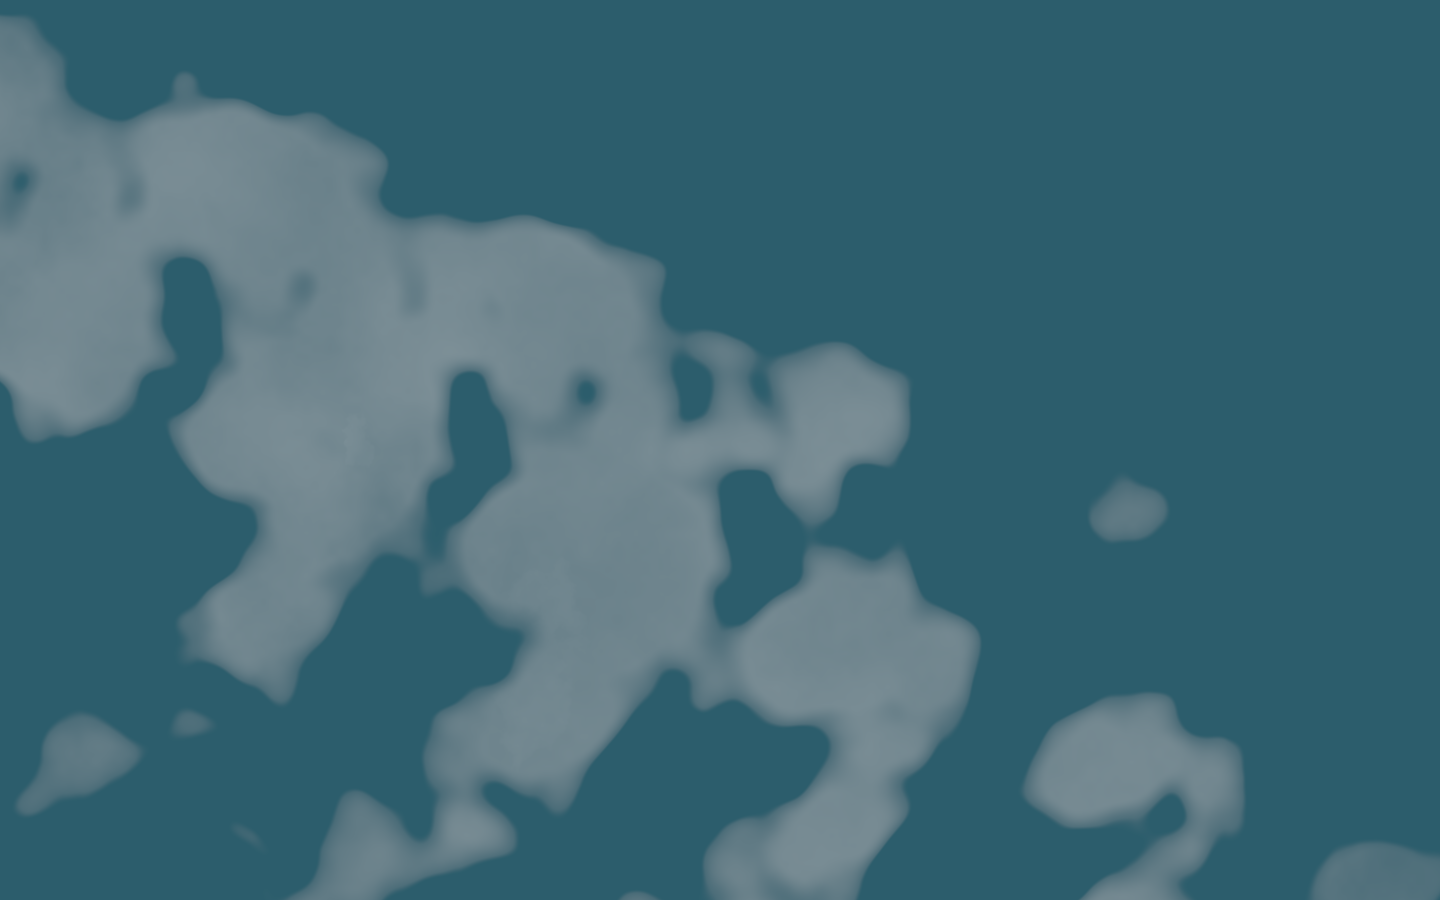
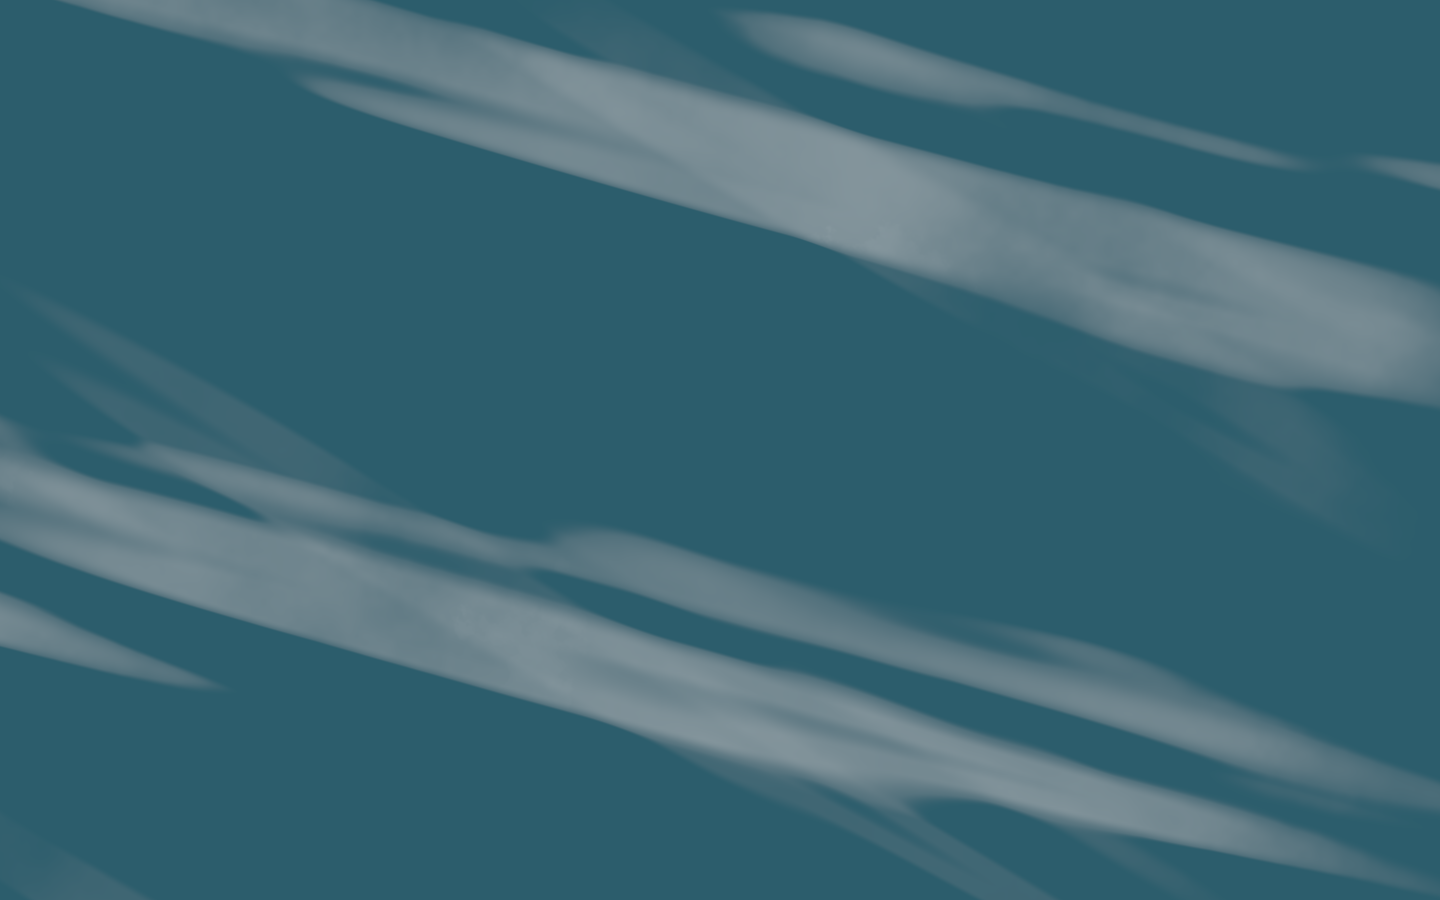
Restore stable line cloud formations

diff --git a/tools/weather-showcase/src/main.rs b/tools/weather-showcase/src/main.rs
@@ -46,8 +46,8 @@ const SHOWCASES: [Showcase; 5] = [
     },
     Showcase {
         name: "marine-stratus",
-        weather: [7.0, 2.0, 0.72, 0.0],
-        structure: [0.90, 0.12, 0.05, 0.0],
+        weather: [7.0, 2.0, 0.95, 0.0],
+        structure: [0.98, 0.08, 0.05, 0.0],
     },
     Showcase {
         name: "high-cirrus",

diff --git a/ARCHITECTURE.md b/ARCHITECTURE.md
@@ -194,9 +194,10 @@ decisions.
   participate in visibility or any other gameplay rule.
 - **[Explicit]** Wind affects cloud translation, not the orientation of the noise
   coordinate system; changing wind must not rotate the rendered cloud field.
-- **[Explicit]** Elongated formations arise by filtering the same unwarped
-  spacetime-noise field along the large-scale wind direction. As that direction
-  changes, formations rebuild from the underlying field rather than rotating.
+- **[Explicit]** Elongated formations compress spacetime-noise coordinates along
+  fixed orientation axes. Wind selects neighboring axes and crossfades their
+  already-formed density, so formations rebuild toward a changed wind direction
+  without rotating in place.
 - **[Explicit]** Cloud motion and formation use only the lowest-frequency wind
   components so regional and gust-scale changes do not abruptly redirect them.
 - **[Explicit]** Sea-level, low-cloud, and high-cloud winds are coherent samples
@@ -253,8 +254,9 @@ decisions.
   band at 118% speed. Low-cloud wind blends that band with the complete surface
   field at 108% speed. WGSL continuously blends crisp 96–1.5 m cumulus and 28 m
   billow detail with elongated stratus, sparse translucent cirrus, narrow squall
-  fronts, and convective storm mass. Nine weighted samples filter the unwarped
-  spacetime fields along each layer's wind direction. Density, optical depth,
+  fronts, and convective storm mass. Twelve fixed axes cover each undirected
+  half-circle; each layer's wind crossfades its two nearest independently sampled
+  orientations. Density, optical depth,
   darkness, and relief remain separate so thin cloud stays transparent, dense
   rain cloud darkens continuously, and fine internal detail survives inside the
   silhouette. Instability weights cumulus against stratus; instability with rain

diff --git a/MAINTAINERS.md b/MAINTAINERS.md
@@ -375,10 +375,11 @@ low/high cloudiness, rain state, predicted simulation time, a visual seed derive
 from the local player identity, and separately integrated low/high cloud offsets. WGSL uses the one weather
 sample uniformly across the viewport; it does not mirror the shared weather field
 per pixel. Player-specific noise forms three continuously blended responses:
-cellular cumulus, elongated stratus and squalls, and sparse high cirrus. Nine
-weighted samples of each elongated field form wind-aligned correlation without
-transforming noise coordinates. Low and high winds advance separate translation
-offsets. Instability blends stratus toward cumulus and, together with rain,
+cellular cumulus, elongated stratus and squalls, and sparse high cirrus. Stratus
+compresses noise coordinates fivefold along its selected axes; cirrus compresses
+them 12.5-fold. Each layer's wind selects two neighbors among 12 fixed undirected
+axes and crossfades their formed density, preventing in-place rotation. Low and
+high winds advance separate translation offsets. Instability blends stratus toward cumulus and, together with rain,
 strengthens dense storm cells. Cloud shading applies only to the fullscreen
 terrain quad, never boat fragments. Density, optical depth, darkness, and relief
 are calculated separately; an exponential optical-depth mapping keeps ordinary
